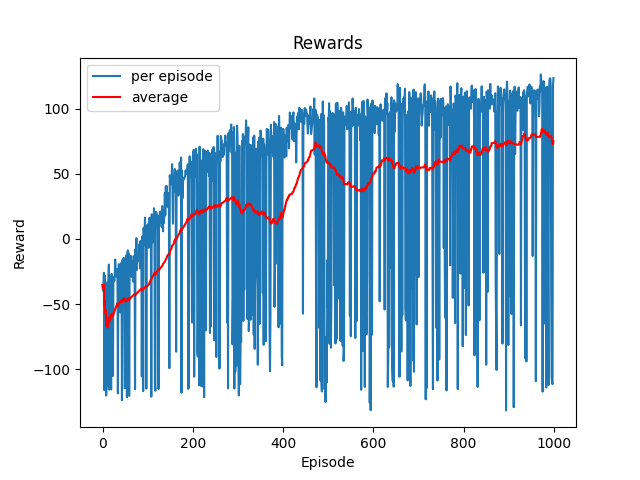
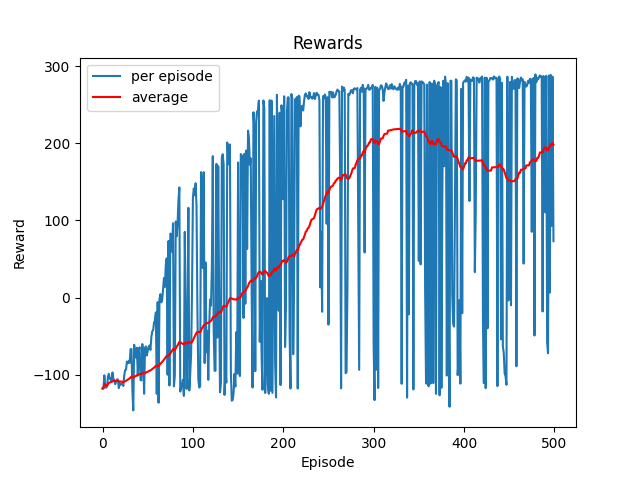
Remove max_steps per episode

diff --git a/train.py b/train.py
@@ -12,8 +12,8 @@ if __name__ == '__main__':
 
     epsilon = 0.2
     gamma = 0.99
-    gae_lambda = 0.95
-    entropy_coef = 0
+    gae_lambda = 0.8
+    entropy_coef = 1e-4
     batch_size = 32
     T = 2048
     actor_lr = 3e-4
@@ -23,8 +23,7 @@ if __name__ == '__main__':
     env = gym.make("BipedalWalker-v3", hardcore=False, render_mode=None)
     trainer = Trainer(epsilon, gamma, gae_lambda, entropy_coef, batch_size, actor_lr, critic_lr, n_epochs)
 
-    n_episodes = 1000
-    max_steps = 600
+    n_episodes = 500
     episode_rewards = []
     avg_rewards = []
     max_reward = -1000
@@ -34,7 +33,7 @@ if __name__ == '__main__':
         terminated = truncated = False
         episode_reward = 0
 
-        for _ in range(max_steps):
+        while not terminated and not truncated:
             action, prob, value = trainer.agent.choose_action(state)
             new_state, reward, terminated, truncated, _ = env.step(action)
             trainer.remember(state, action, reward, value, prob, terminated)
@@ -43,9 +42,6 @@ if __name__ == '__main__':
             if len(trainer.memory.states) >= T:
                 trainer.learn()
                 trainer.memory.clear_memory()
-
-            if terminated or truncated:
-                break
 
             state = new_state
 
